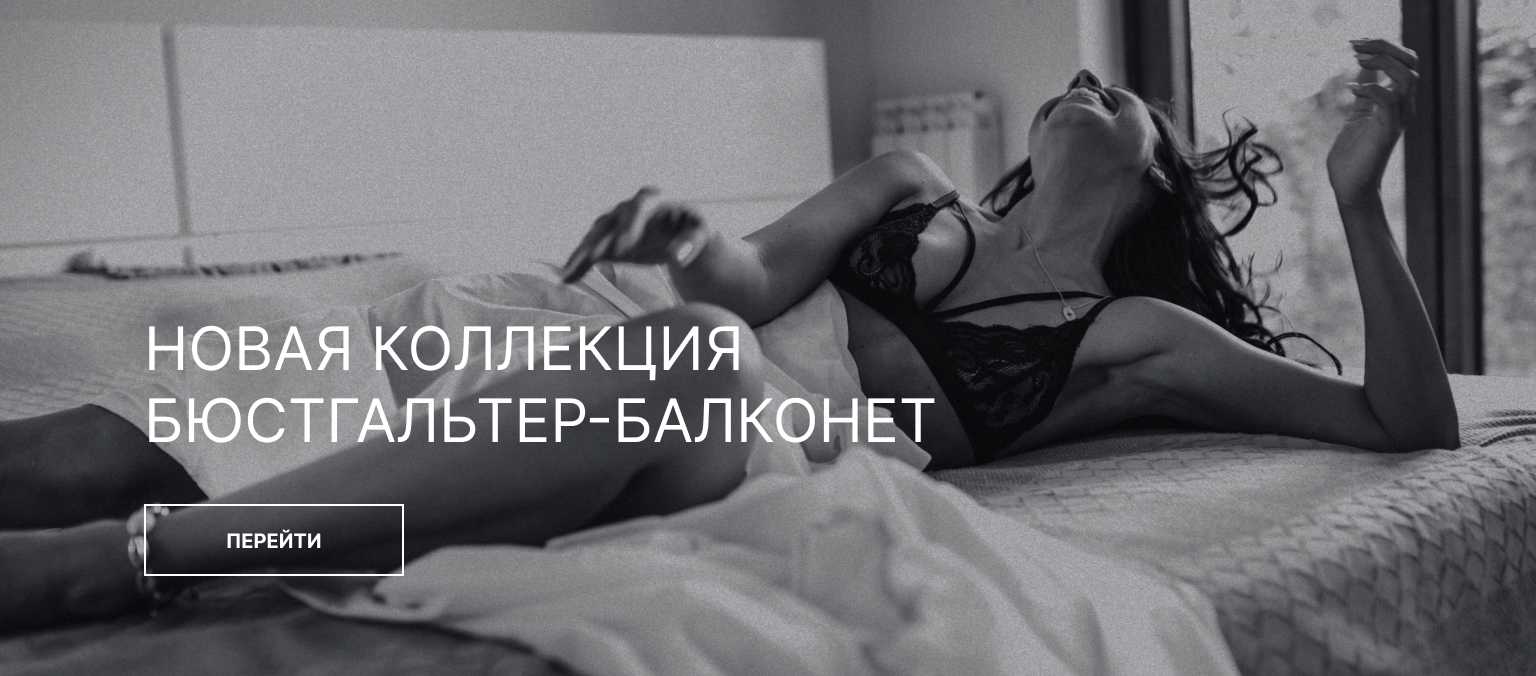
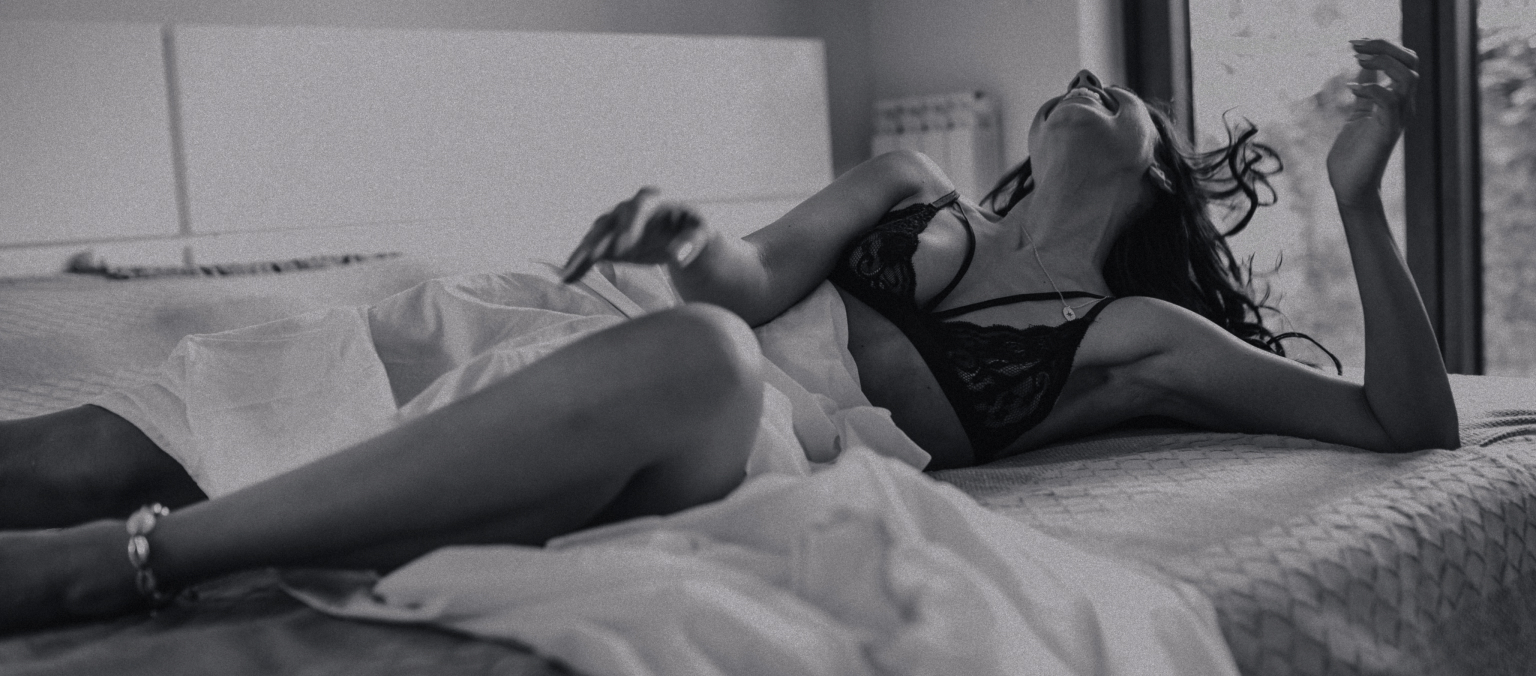
Стили hero и products

diff --git a/src/index.html b/src/index.html
@@ -93,7 +93,7 @@
       </ul>
     </div>
   </nav>
-  <section class="hero hero__men">
+  <section class="hero hero__women">
     <div class="container">
       <div class="hero__content">
         <h2 class="hero__title">Новая коллекция Бюстгальтер-балконет</h2>
@@ -111,7 +111,7 @@
         <li class="goods__item">
           <article class="product">
             <a href="#" class="product__link">
-              <img src="img/prodduct01.jpg" alt="Бюстгальтер-Балконет Wien из Микрофибры" class="product__image">
+              <img src="img/prodduct03.jpg" alt="Бюстгальтер-Балконет Wien из Микрофибры" class="product__image">
               <h3 class="product__title">Бюстгальтер-Балконет Wien из Микрофибры</h3>  
             </a>
 
@@ -167,7 +167,7 @@
         <li class="goods__item">
           <article class="product">
             <a href="#" class="product__link">
-              <img src="img/prodduct01.jpg" alt="Бюстгальтер-Балконет Wien из Микрофибры" class="product__image">
+              <img src="img/prodduct03.jpg" alt="Бюстгальтер-Балконет Wien из Микрофибры" class="product__image">
               <h3 class="product__title">Бюстгальтер-Балконет Wien из Микрофибры</h3>  
             </a>
 
@@ -223,7 +223,7 @@
         <li class="goods__item">
           <article class="product">
             <a href="#" class="product__link">
-              <img src="img/prodduct01.jpg" alt="Бюстгальтер-Балконет Wien из Микрофибры" class="product__image">
+              <img src="img/prodduct03.jpg" alt="Бюстгальтер-Балконет Wien из Микрофибры" class="product__image">
               <h3 class="product__title">Бюстгальтер-Балконет Wien из Микрофибры</h3>  
             </a>
 

diff --git a/src/style/_goods.scss b/src/style/_goods.scss
@@ -1,0 +1,42 @@
+.goods {
+    &__title {
+        font-weight: 400;
+        font-size: 32px;
+        line-height: 39px;
+        text-align: center;
+        text-transform: uppercase;   
+        padding-bottom: 25px;     
+        border-bottom: 1px solid $light_gray;
+
+        @include tablet {
+            font-size: 24px;
+            line-height: 29px;
+            padding-bottom: 16px;
+        }
+
+        @include mobile {
+            font-size: 18px;
+            line-height: 22px;
+            padding-bottom: 9px;
+        }
+    }
+    &__list {
+        padding-top: 40px;
+        display: grid;
+        gap: 40px 20px;
+        grid-template-columns: repeat(auto-fill, 280px);
+        justify-content: space-evenly;
+
+        @include tablet {
+            row-gap: 24px;
+            padding-top: 24px;
+            grid-template-columns:  repeat(auto-fill, 140px);
+        }
+
+        @include mobile {
+            gap: 16px 10px;
+            padding-top: 16px;
+        }
+    }
+
+}

diff --git a/src/style/_hero.scss b/src/style/_hero.scss
@@ -28,6 +28,17 @@
 
     &__men {
         background-image: url('../img/bg-men.jpg');
+       
+        @include laptop {
+            background-image: url('../img/bg-laptop-men.jpg');
+        }
+        @include tablet {
+            background-image: url('../img/bg-tablet-men.jpg');
+        }
+        @include mobile {
+            background-image: url('../img/bg-mobile-men.jpg');
+        }
+
     }
 
     &__content {
@@ -55,7 +66,7 @@
             margin-bottom: 24px;
         }
         @include mobile {
-            font-size: 44px;
+            font-size: 20px;
             margin-bottom: 16px;
         }
     }

diff --git a/src/style/_style.scss b/src/style/_style.scss
@@ -56,6 +56,17 @@ fieldset {
     margin: 0;
 }
 
+main {
+    margin-bottom: 120px;
+
+    @include tablet {
+        margin-bottom: 80px;
+    }
+
+    @include mobile {
+        margin-bottom: 80px;
+    }
+}
 /*
 Доступно скрываю элементы
   */

diff --git a/src/index.scss b/src/index.scss
@@ -8,3 +8,5 @@
 @import 'style/gender';
 @import 'style/category';
 @import 'style/hero';
+@import 'style/goods';
+@import 'style/product';
